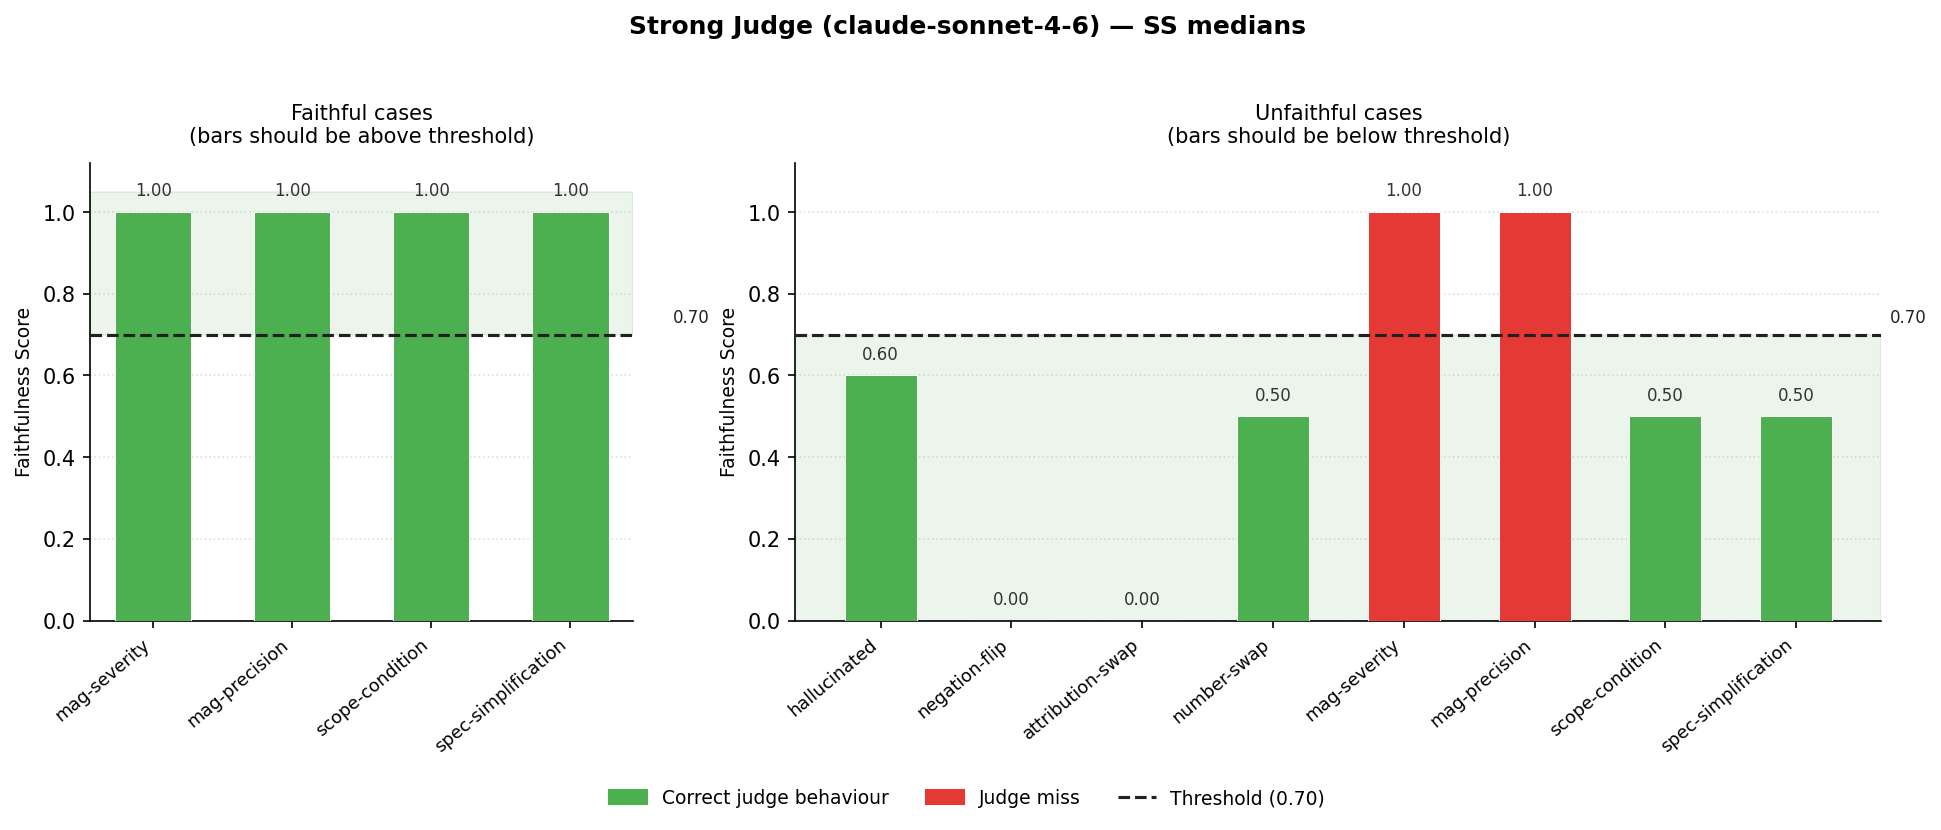
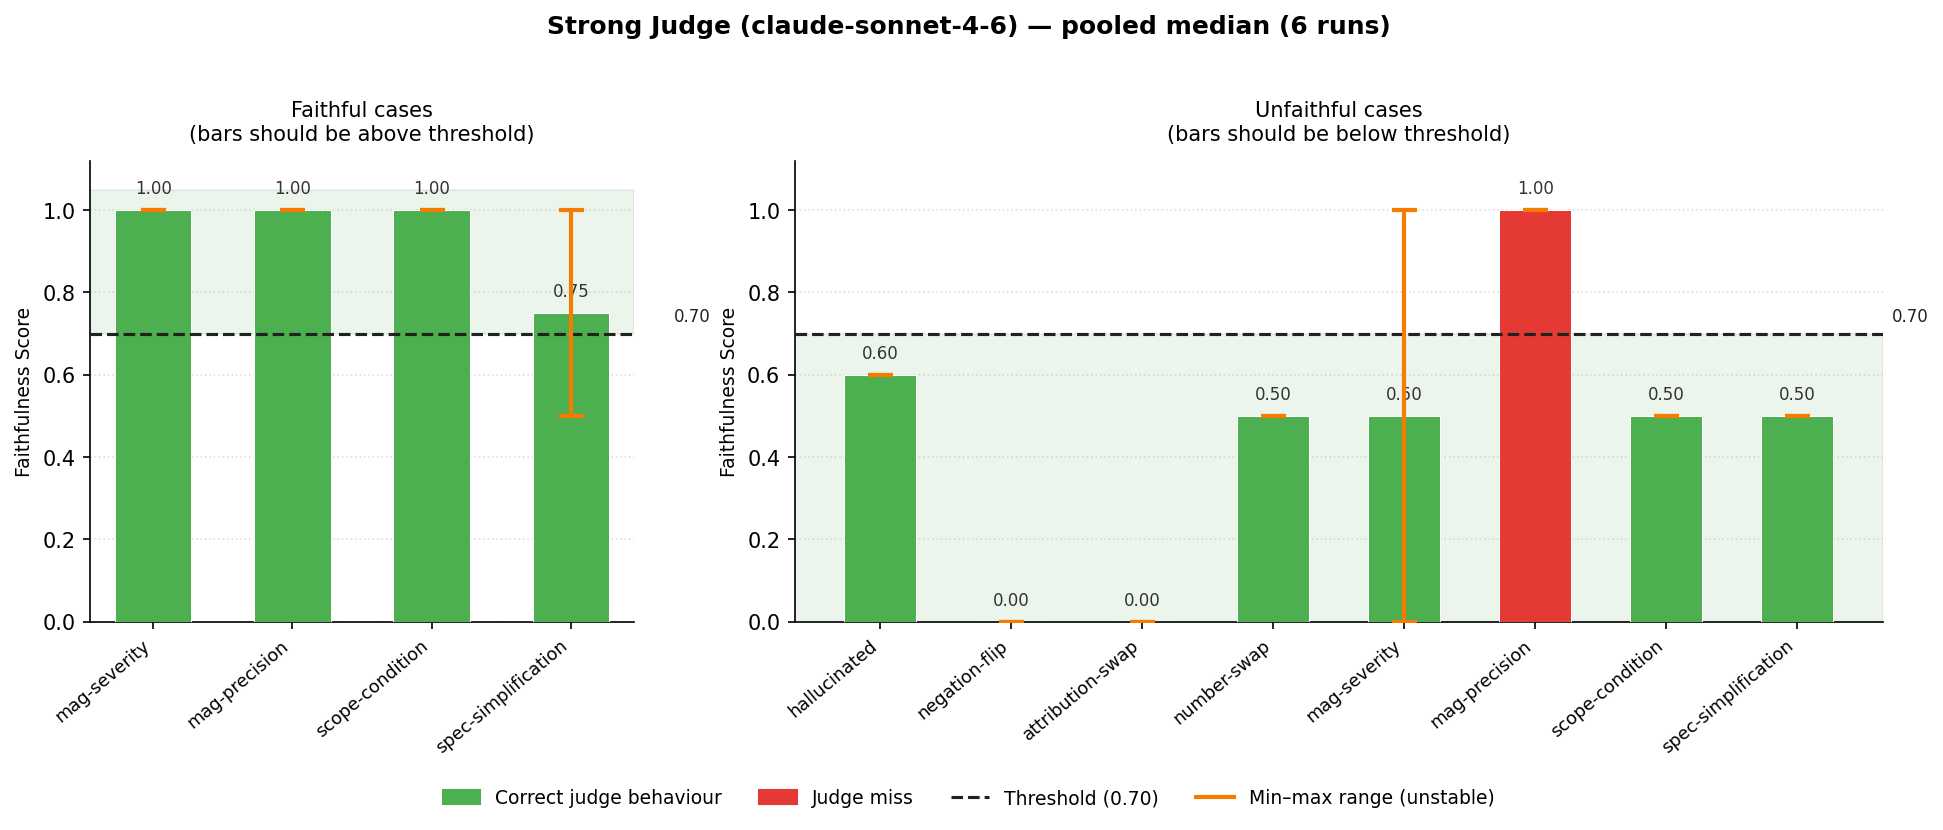
Restructure §4 calibration with pooled medians
Calibration cases use pre-written summaries — the summariser plays
no role. Pooling SS+WS and SW+WW into a single 6-run median column
per judge eliminates the false implication that SS vs WS differences
reflect summariser behaviour rather than judge non-determinism.

Key changes:
- Tables collapsed to one "Median (6 runs)" column per judge; pooled
  medians recomputed (spec_simplification faithful: 0.75 not 1.00;
  magnitude_severity unfaithful: 0.50 not 1.00 for strong judge)
- Preamble adds FP/FN definitions scoped as run-level events, a
  verdict key distinguishing universal miss (wrong every run) from
  run-level instability (correct at median, variable per run), and
  a note that error bars mark all bars for consistency
- Faithful floor corrected to 0.75; threshold assessment updated to
  explain why neither raising nor lowering it fixes either failure
  mode (precision-loss scores 1.00; spec_simplification instability
  is non-determinism, not threshold placement)
- "false-flag" replaced with "false positive" / "false negative"
  throughout; one WW bullet corrected from false positive to false
  negative (Mistral missing llama3.2 sarcasm hallucination)
- Chart script: per-config faithful_scores and ranges; error bars
  always drawn so stable bars get zero-height caps for consistency;
  legend updated with range entry; ncol bumped to 4

diff --git a/scripts/generate_calibration_charts.py b/scripts/generate_calibration_charts.py
@@ -17,7 +17,6 @@ THRESHOLD = 0.70
 OUT_DIR = Path(__file__).resolve().parent.parent / "docs" / "images"
 
 FAITHFUL_LABELS = ["mag-severity", "mag-precision", "scope-condition", "spec-simplification"]
-FAITHFUL_SCORES = [1.00, 1.00, 1.00, 1.00]
 
 UNFAITHFUL_LABELS = [
     "hallucinated",
@@ -30,16 +29,28 @@ UNFAITHFUL_LABELS = [
     "spec-simplification",
 ]
 
+# Pooled medians across SS+WS (strong judge, 6 runs) and SW+WW (weak judge, 6 runs).
+# Calibration cases use pre-written summaries so the summariser plays no role;
+# pooling eliminates the misleading implication that SS/WS differences are summariser-driven.
+# Ranges are (min, max) for unstable entries (max−min > 0.2), None for stable ones.
 CONFIGS = {
     "strong": {
-        "title": "Strong Judge (claude-sonnet-4-6) — SS medians",
+        "title": "Strong Judge (claude-sonnet-4-6) — pooled median (6 runs)",
         "filename": "calibration_strong_judge.png",
-        "unfaithful_scores": [0.60, 0.00, 0.00, 0.50, 1.00, 1.00, 0.50, 0.50],
+        # spec-simplification: SS [1,1,0.5] + WS [1,0.5,0.5] → sorted [0.5,0.5,0.5,1,1,1] → 0.75
+        "faithful_scores": [1.00, 1.00, 1.00, 0.75],
+        "faithful_ranges": [None, None, None, (0.50, 1.00)],
+        # mag-severity: SS [0,1,1] + WS [0,0,1] → sorted [0,0,0,1,1,1] → 0.50
+        "unfaithful_scores": [0.60, 0.00, 0.00, 0.50, 0.50, 1.00, 0.50, 0.50],
+        "unfaithful_ranges": [None, None, None, None, (0.00, 1.00), None, None, None],
     },
     "weak": {
-        "title": "Weak Judge (ollama/mistral) — SW medians",
+        "title": "Weak Judge (ollama/mistral) — pooled median (6 runs)",
         "filename": "calibration_weak_judge.png",
+        "faithful_scores": [1.00, 1.00, 1.00, 1.00],
+        "faithful_ranges": [None, None, None, None],
         "unfaithful_scores": [0.60, 0.00, 0.00, 0.33, 1.00, 1.00, 1.00, 0.50],
+        "unfaithful_ranges": [None, None, None, None, None, None, None, None],
     },
 }
 
@@ -47,6 +58,7 @@ GREEN = "#4CAF50"
 RED = "#E53935"
 NEUTRAL = "#90A4AE"
 THRESHOLD_COLOR = "#212121"
+RANGE_COLOR = "#F57C00"
 
 
 def _bar_colors(scores: list[float], is_faithful: bool) -> list[str]:
@@ -59,6 +71,7 @@ def _draw_subplot(
     ax: plt.Axes,
     labels: list[str],
     scores: list[float],
+    ranges: list[tuple[float, float] | None],
     is_faithful: bool,
     subtitle: str,
 ) -> None:
@@ -72,6 +85,21 @@ def _draw_subplot(
         ax.axhspan(0, THRESHOLD, alpha=0.08, color="green", zorder=0)
 
     bars = ax.bar(x, scores, color=colors, width=0.55, zorder=3, edgecolor="white", linewidth=0.5)
+
+    # Error bars for all entries: real range for unstable, zero-height cap for stable
+    yerr_lower = [s - r[0] if r else 0.0 for s, r in zip(scores, ranges)]
+    yerr_upper = [r[1] - s if r else 0.0 for s, r in zip(scores, ranges)]
+    ax.errorbar(
+        x,
+        scores,
+        yerr=[yerr_lower, yerr_upper],
+        fmt="none",
+        ecolor=RANGE_COLOR,
+        elinewidth=2,
+        capsize=6,
+        capthick=2,
+        zorder=5,
+    )
 
     ax.axhline(y=THRESHOLD, color=THRESHOLD_COLOR, linestyle="--", linewidth=1.5, zorder=4)
 
@@ -115,7 +143,8 @@ def generate(config_key: str) -> None:
     _draw_subplot(
         ax1,
         FAITHFUL_LABELS,
-        FAITHFUL_SCORES,
+        cfg["faithful_scores"],
+        cfg["faithful_ranges"],
         is_faithful=True,
         subtitle="Faithful cases\n(bars should be above threshold)",
     )
@@ -123,6 +152,7 @@ def generate(config_key: str) -> None:
         ax2,
         UNFAITHFUL_LABELS,
         cfg["unfaithful_scores"],
+        cfg["unfaithful_ranges"],
         is_faithful=False,
         subtitle="Unfaithful cases\n(bars should be below threshold)",
     )
@@ -131,11 +161,12 @@ def generate(config_key: str) -> None:
         mpatches.Patch(color=GREEN, label="Correct judge behaviour"),
         mpatches.Patch(color=RED, label="Judge miss"),
         plt.Line2D([0], [0], color=THRESHOLD_COLOR, linestyle="--", linewidth=1.5, label="Threshold (0.70)"),
+        plt.Line2D([0], [0], color=RANGE_COLOR, linewidth=2, label="Min–max range (unstable)"),
     ]
     fig.legend(
         handles=legend_handles,
         loc="lower center",
-        ncol=3,
+        ncol=4,
         bbox_to_anchor=(0.5, -0.06),
         fontsize=9,
         frameon=False,

diff --git a/docs/model-configuration-analysis.md b/docs/model-configuration-analysis.md
@@ -68,7 +68,7 @@ Median [min–max] across 3 runs; see Fig. 2a for a visual overview. Entries mar
 - **SS (48/48)** — lowest median is 0.71 on `negative_sarcasm` and `negative_timeline_shipping`; all other medians ≥0.88. Zero failures across 3 runs. Notably, WS scores 1.00 on both of these cases under the same Sonnet judge — the weak summarizer outscores the strong one. This is not a quality reversal; it reflects the strong model introducing derived claims the judge correctly penalises (see §7.7).
 - **SW** — one failure: `positive_conflicting_conditional` scores 0.60 on run 1 and 1.00 on runs 2–3 (median 1.00). `negative_sarcasm` has a 0.75 median, above threshold.
 - **WS** — `negative_sarcasm` collapses to 0.00 in all 3 runs. llama3.2 strips the sarcasm and writes a literal "customer loves it" summary, which Sonnet correctly scores as unfaithful to the actually-negative source. This is a summarizer failure surfaced through the judge.
-- **WW** — `positive_negation_double` (0.67) is the lone threshold failure; Mistral's scoring on litotes-heavy text is unreliable. `negative_sarcasm` scores 1.00 because Mistral fails to catch the same llama3.2 hallucination that Sonnet flagged — a false positive on faithfulness driven by weak-judge leniency.
+- **WW** — `positive_negation_double` (0.67) is the lone threshold failure; Mistral's scoring on litotes-heavy text is unreliable. `negative_sarcasm` scores 1.00 because Mistral fails to catch the same llama3.2 hallucination that Sonnet flagged — a false negative driven by weak-judge leniency.
 
 ![§2a Normal-case faithfulness heatmap](images/heatmap_normal_faithfulness.png)
 
@@ -164,7 +164,7 @@ Both families of outputs are defensible, but the dataset treats `positive` as gr
 | `judge_unfaithful_magnitude_precision` | FAIL | 0/3 | 0/3 | 0/3 | 0/3 | **Universal miss** |
 | `judge_unfaithful_magnitude_severity` | FAIL | 1/3 | 0/3 | 2/3 | 0/3 | Sonnet judge unstable; Mistral judge misses |
 | `judge_unfaithful_scope_condition` | FAIL | 3/3 | 0/3 | 3/3 | 0/3 | Clean judge split: Sonnet catches, Mistral doesn't |
-| `judge_faithful_spec_simplification` | PASS | 2/3 | 3/3 | 1/3 | 3/3 | Sonnet judge *false-positive-flags* the summary |
+| `judge_faithful_spec_simplification` | PASS | 2/3 | 3/3 | 1/3 | 3/3 | Sonnet judge: sporadic false positive on faithful summary |
 
 **`judge_unfaithful_magnitude_precision`** fails in every config, every run. The source says the blender "pulverizes frozen fruit and ice into a perfectly smooth puree in under 10 seconds"; the unfaithful summary softens this to "quickly blends frozen fruit and ice into a smooth puree". Both judges decompose "quickly blends" as a fuzzy generalization of "under 10 seconds" and rule it consistent with the source. Neither model is sensitive to **precision loss** as a faithfulness failure when the softer claim is not strictly false — Ragas's statement-level decomposition doesn't capture "loss of quantitative detail" as a violation.
 
@@ -204,50 +204,56 @@ Failed *observations* (test × run) per config, summed across all assertion type
 
 ## 4. Threshold Validation
 
-Judge calibration cases use pre-written summaries (no summarizer involved), so scores reflect judge behaviour only. WS vs SS and WW vs SW compare identical summary+source pairs against the same judge — the small differences between SS/WS and SW/WW on calibration cases are pure judge non-determinism across the 3 runs.
+Judge calibration cases use pre-written summaries (no summariser involved), so scores reflect judge behaviour only. Scores are pooled into a single 6-run median per judge. Ranges shown only for unstable entries (`*` = max−min across all 6 runs > 0.2).
 
-### Strong judge (claude-sonnet-4-6) — SS + WS columns
+**False positive**: on a given run, the judge scores a faithful summary below the 0.70 threshold (PASS case).
 
-| Case | Expected | SS median [min–max] | WS median [min–max] | Verdict |
-|---|---|---|---|---|
-| judge_faithful_magnitude_severity | PASS | 1.00 [1.00–1.00] | 1.00 [1.00–1.00] | ✓ |
-| judge_faithful_magnitude_precision | PASS | 1.00 [1.00–1.00] | 1.00 [1.00–1.00] | ✓ |
-| judge_faithful_scope_condition | PASS | 1.00 [1.00–1.00] | 1.00 [1.00–1.00] | ✓ |
-| judge_faithful_spec_simplification | PASS | 1.00 [0.50–1.00]* | 0.50 [0.50–1.00]* | ✗ false-flag risk (see §3.3) |
-| judge_unfaithful_hallucinated | FAIL | 0.60 [0.60–0.60] | 0.60 [0.60–0.60] | ✓ |
-| judge_unfaithful_negation_flip | FAIL | 0.00 [0.00–0.00] | 0.00 [0.00–0.00] | ✓ |
-| judge_unfaithful_attribution_swap | FAIL | 0.00 [0.00–0.00] | 0.00 [0.00–0.00] | ✓ |
-| judge_unfaithful_number_swap | FAIL | 0.50 [0.50–0.60] | 0.50 [0.50–0.60] | ✓ |
-| judge_unfaithful_magnitude_severity | FAIL | 1.00 [0.00–1.00]* | 0.00 [0.00–1.00]* | ✗ unstable |
-| judge_unfaithful_magnitude_precision | FAIL | 1.00 [1.00–1.00] | 1.00 [1.00–1.00] | ✗ universal miss |
-| judge_unfaithful_scope_condition | FAIL | 0.50 [0.50–0.50] | 0.50 [0.50–0.50] | ✓ |
-| judge_unfaithful_spec_simplification | FAIL | 0.50 [0.50–0.50] | 0.50 [0.50–0.50] | ✓ (borderline) |
+**False negative**: on a given run, the judge scores an unfaithful summary at or above 0.70 (FAIL case).
 
-- Faithful cluster median: **1.00** (one case dips to 0.50 unstable)
-- Unfaithful cluster max among stable cases (excluding `magnitude_precision` universal miss and `magnitude_severity` instability): **0.60** → 0.10 gap below threshold
-- Including `magnitude_severity`, the SS median is **1.00 [0.00–1.00]*** (judge instability crosses the threshold on individual runs)
-- Including `magnitude_precision`: **1.00** → universal miss, crosses threshold on every run
+**Verdict key**: ✓ means the median score is correct and the case is stable across all 6 runs. ✗ marks two distinct outcomes: a **universal miss** (the judge gets the case wrong in every run — no correct scores at all); or a **run-level instability** (median is on the correct side on average but individual runs vary, labelled "unstable"). Unstable entries are always accompanied by a range.
 
-### Weak judge (ollama/mistral) — SW + WW columns
+### Strong judge (claude-sonnet-4-6)
 
-| Case | Expected | SW median [min–max] | WW median [min–max] | Verdict |
-|---|---|---|---|---|
-| judge_faithful_magnitude_severity | PASS | 1.00 | 1.00 | ✓ |
-| judge_faithful_magnitude_precision | PASS | 1.00 | 1.00 | ✓ |
-| judge_faithful_scope_condition | PASS | 1.00 | 1.00 | ✓ |
-| judge_faithful_spec_simplification | PASS | 1.00 | 1.00 | ✓ |
-| judge_unfaithful_hallucinated | FAIL | 0.60 | 0.60 | ✓ |
-| judge_unfaithful_negation_flip | FAIL | 0.00 | 0.00 | ✓ |
-| judge_unfaithful_attribution_swap | FAIL | 0.00 | 0.00 | ✓ |
-| judge_unfaithful_number_swap | FAIL | 0.33 | 0.33 | ✓ |
-| judge_unfaithful_magnitude_severity | FAIL | 1.00 | 1.00 | ✗ universal miss |
-| judge_unfaithful_magnitude_precision | FAIL | 1.00 | 1.00 | ✗ universal miss |
-| judge_unfaithful_scope_condition | FAIL | 1.00 | 1.00 | ✗ universal miss |
-| judge_unfaithful_spec_simplification | FAIL | 0.50 | 0.50 | ✓ (borderline) |
+| Case | Expected | Median (6 runs) | Verdict |
+|---|---|---|---|
+| judge_faithful_magnitude_severity | PASS | 1.00 | ✓ |
+| judge_faithful_magnitude_precision | PASS | 1.00 | ✓ |
+| judge_faithful_scope_condition | PASS | 1.00 | ✓ |
+| judge_faithful_spec_simplification | PASS | 0.75 [0.50–1.00]* | ✗ unstable (run-level false positives, see §3.3) |
+| judge_unfaithful_hallucinated | FAIL | 0.60 | ✓ |
+| judge_unfaithful_negation_flip | FAIL | 0.00 | ✓ |
+| judge_unfaithful_attribution_swap | FAIL | 0.00 | ✓ |
+| judge_unfaithful_number_swap | FAIL | 0.50 | ✓ |
+| judge_unfaithful_magnitude_severity | FAIL | 0.50 [0.00–1.00]* | ✗ unstable (run-level false negatives) |
+| judge_unfaithful_magnitude_precision | FAIL | 1.00 | ✗ universal miss |
+| judge_unfaithful_scope_condition | FAIL | 0.50 | ✓ |
+| judge_unfaithful_spec_simplification | FAIL | 0.50 | ✓ |
 
-- Faithful cluster median: **1.00** (fully stable — no false-flagging)
-- Unfaithful cluster max (excluding misses): **0.60**
-- Unfaithful cluster including misses: **1.00** → **three universal misses**
+- Faithful cases: 3 of 4 at **1.00** (stable); `spec_simplification` unreliable — 0.75 pooled median, 3 of 6 runs a false positive
+- Unfaithful cases (stable): max **0.60** → 0.10 gap below threshold
+- One universal miss: `magnitude_precision` (1.00 across all 6 runs)
+- `magnitude_severity`: unreliable — scores 0.00 and 1.00 equally across 6 runs (pooled median 0.50)
+
+### Weak judge (ollama/mistral)
+
+| Case | Expected | Median (6 runs) | Verdict |
+|---|---|---|---|
+| judge_faithful_magnitude_severity | PASS | 1.00 | ✓ |
+| judge_faithful_magnitude_precision | PASS | 1.00 | ✓ |
+| judge_faithful_scope_condition | PASS | 1.00 | ✓ |
+| judge_faithful_spec_simplification | PASS | 1.00 | ✓ |
+| judge_unfaithful_hallucinated | FAIL | 0.60 | ✓ |
+| judge_unfaithful_negation_flip | FAIL | 0.00 | ✓ |
+| judge_unfaithful_attribution_swap | FAIL | 0.00 | ✓ |
+| judge_unfaithful_number_swap | FAIL | 0.33 | ✓ |
+| judge_unfaithful_magnitude_severity | FAIL | 1.00 | ✗ universal miss |
+| judge_unfaithful_magnitude_precision | FAIL | 1.00 | ✗ universal miss |
+| judge_unfaithful_scope_condition | FAIL | 1.00 | ✗ universal miss |
+| judge_unfaithful_spec_simplification | FAIL | 0.50 | ✓ |
+
+- Faithful cases: all at **1.00** (fully stable — no false positives)
+- Unfaithful cases (stable): max **0.60**
+- Unfaithful cases including misses: **1.00** → **three universal misses**
 
 ### Score Distribution vs Threshold
 
@@ -255,18 +261,18 @@ See Figs. 4a–b for score distributions across faithful and unfaithful calibrat
 
 ![Strong judge calibration scores](images/calibration_strong_judge.png)
 
-*Fig. 4a. Strong judge (claude-sonnet-4-6). Left: faithful cases (bars should be above 0.70). Right: unfaithful cases (bars should be below 0.70). Green = correct behaviour; red = miss.*
+*Fig. 4a. Strong judge (claude-sonnet-4-6), pooled median (6 runs). Left: faithful cases (bars should be above 0.70). Right: unfaithful cases (bars should be below 0.70). Green = correct behaviour; red = miss.*
 
 ![Weak judge calibration scores](images/calibration_weak_judge.png)
 
-*Fig. 4b. Weak judge (ollama/mistral). Same layout as Fig. 4a.*
+*Fig. 4b. Weak judge (ollama/mistral), pooled median (6 runs). Same layout as Fig. 4a.*
 
 ### Assessment
 
-- The **classic-error cases** (hallucinated, negation_flip, attribution_swap, number_swap) are still cleanly separated from the faithful cluster for both judges (0.60 max vs 1.00 min), and 0.70 is still a valid threshold for these error types.
-- The **precision-loss cases** (magnitude/scope/spec) expose a fundamental Ragas limitation: statement decomposition doesn't capture **precision loss** or **scope reduction** when the softer claim is not literally false. Both judges miss `magnitude_precision`. Sonnet also misses `magnitude_severity` unstably (SS: [0.00, 1.00, 1.00], median 1.00 flagged unstable) — so the strong judge has 2 misses in total. Mistral misses `magnitude_severity` universally and additionally misses `scope_condition`, giving the weak judge 3 misses.
-- **Sonnet judge's `spec_simplification` false-flag** is the opposite failure mode: Sonnet treats a correct terminology expansion ("DSE" → "dirty screen effect") as unsupported inference in 3 of 6 Sonnet-judged runs (SS 1/3, WS 2/3). Mistral doesn't, because its domain knowledge is shallower.
-- The threshold itself does not need adjustment — raising it wouldn't help catch precision-loss errors, because those score 1.00 not just 0.71. The fix is a **different metric**, not a different threshold (see §§7.6–7.7).
+- The **classic-error unfaithful cases** (hallucinated, negation_flip, attribution_swap, number_swap) are cleanly separated from the faithful calibration cases for both judges — unfaithful scores top out at 0.60, faithful scores bottom out at 0.75 — and 0.70 sits inside that gap.
+- The **precision-loss cases** (magnitude/scope/spec) expose a fundamental Ragas limitation: statement decomposition doesn't capture **precision loss** or **scope reduction** when the softer claim remains factually true. Both judges miss `magnitude_precision` on the unfaithful side, scoring 1.00 when they should score below threshold. Sonnet is also unreliable on `magnitude_severity` (unfaithful) — scoring 0.00 and 1.00 equally across 6 runs (pooled median 0.50); it gets it right on average but cannot be trusted. Mistral misses `magnitude_severity` universally and additionally misses `scope_condition`, giving the weak judge 3 misses on unfaithful cases.
+- **Sonnet judge's `spec_simplification` false positive** is the opposite failure mode: Sonnet treats a correct terminology expansion ("DSE" → "dirty screen effect") in a faithful summary as unsupported inference in 3 of 6 Sonnet-judged runs. Mistral doesn't, because its domain knowledge is shallower.
+- The threshold itself does not need adjustment. For precision-loss universal misses (bullet 2), the scores are 1.00 — raising the threshold cannot reach them; the fix is a **different metric** (see §§7.6–7.7). For `spec_simplification` false positives (bullet 3), lowering the threshold would not reliably help either: the judge scores the same faithful summary 0.50 in some runs and 1.00 in others, and lowering below 0.60 would introduce false negatives on `hallucinated`. The problem is judge non-determinism, not threshold placement.
 
 ---
 
@@ -305,7 +311,7 @@ The "borderline" label is now earned rather than aspirational: the case tests th
 
 **SS** is the quality ceiling and the correct default for CI gating. It has zero faithfulness or robustness failures across 3 runs and its only sentiment failure is the defensible `positive_conflicting_conditional` disagreement. The same-family bias risk is real but not refuted by this data.
 
-**SW** pays API cost for summarization but offloads scoring to local Mistral. It matches SS on sentiment and conflicting accuracy, but introduces adversarial faithfulness failures (driven by Mistral scoring short adversarial outputs erratically) and is calibrated worse than SS on the precision-loss cases: SW misses `judge_unfaithful_scope_condition` 3/3 (vs SS 3/3 catches) and `judge_unfaithful_magnitude_severity` 0/3 (vs SS 1/3), partly offset by never false-flagging `judge_faithful_spec_simplification` (SW 3/3 correct vs SS 2/3). It trades some evaluation quality for privacy on the judge side.
+**SW** pays API cost for summarization but offloads scoring to local Mistral. It matches SS on sentiment and conflicting accuracy, but introduces adversarial faithfulness failures (driven by Mistral scoring short adversarial outputs erratically) and is calibrated worse than SS on the precision-loss cases: SW misses `judge_unfaithful_scope_condition` 3/3 (vs SS 3/3 catches) and `judge_unfaithful_magnitude_severity` 0/3 (vs SS 1/3), partly offset by never producing a false positive on `judge_faithful_spec_simplification` (SW 3/3 correct vs SS 2/3). It trades some evaluation quality for privacy on the judge side.
 
 **WS** is summarizer-bound: llama3.2's sarcasm blindness, conflicting-signal collapse, and two injection failures account for most of its failures. Using Sonnet as the judge surfaces these faithfully. Useful as a **capability stress test for weak summarizers**, not as a CI config.
 
@@ -345,7 +351,7 @@ Across 12 runs, 10 (case × config) entries are flagged as unstable (max−min >
 | adversarial_system_override | SW | 0.67–1.00 | Same |
 | judge_unfaithful_magnitude_severity | SS | 0.00–1.00 | Sonnet judge flips on severity softening |
 | judge_unfaithful_magnitude_severity | WS | 0.00–1.00 | Same — judge-driven |
-| judge_faithful_spec_simplification | SS | 0.50–1.00 | Sonnet judge sporadic false-flag on "DSE" expansion |
+| judge_faithful_spec_simplification | SS | 0.50–1.00 | Sonnet judge sporadic false positive on "DSE" expansion |
 | judge_faithful_spec_simplification | WS | 0.50–1.00 | Same — judge-driven |
 
 Nine of the 10 instabilities fall cleanly into two buckets: a Mistral judge on short/adversarial outputs, or a Sonnet judge on the precision-loss calibration cases. The one exception is `positive_negation_double` under WS — a Sonnet judge on a normal negation case, flipping between 1.00 and 0.67 as it parses litotes inconsistently. WS vs SS on `judge_unfaithful_magnitude_severity` is particularly striking: identical summary + source + judge, different runs produce 0.00 vs 1.00. A single-run analysis of this case could have told any story.
